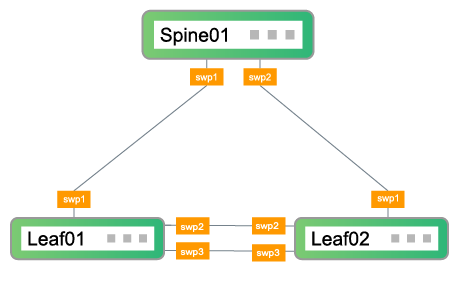
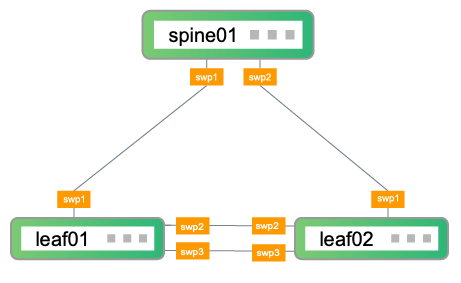
updates to vagrant and VB

Changed region(s): [[0.3341, 0.0848, 0.5163, 0.1696], [0.6681, 0.8198, 0.82, 0.8763], [0.0607, 0.8198, 0.2126, 0.8763]]

diff --git a/themes/netDocs/layouts/shortcodes/vx-basic-config.html b/themes/netDocs/layouts/shortcodes/vx-basic-config.html
@@ -1,20 +1,15 @@
-<p>After you have created the three VMs: Leaf01, Leaf02, and Spine 01, power on the VMs, then perform the following basic configuration:</p>
+<p>After you have created the three VMs: leaf01, leaf02, and spine 01, power on the VMs, then perform the following basic configuration:</p>
 
 <ul>
-<li>Log into each switch</li>
 <li>Change the hostname</li>
 <li>Bring up swp1, swp2, and swp3</li>
 <li>Check the connections</li>
 </ul>
 <p>You can also check system information and upgrade Cumulus Linux using ONIE (an open source project (equivalent to PXE on servers) that enables the installation of network operating systems).</p>
-<h3 id="logintotheswitch">Log in to Each Switch</h3>
-<p> Log into each switch with the <code>cumulus</code> account and default password <code>cumulus</code>. When you log in for the first time with the <code>cumulus</code> account, you are prompted to change the default password.</p>
-
-<b>Note:</b> If you are using Cumulus VX 4.1.1 or earlier, the default password is <code>CumulusLinux!</code>. You are <b>not</b> prompted to change the default password.</p>
 
 <h3 id="changethehostname">Change the Hostname</h3>
 
-<p>On each VM, run the following command, where <code>&#60;name&#62;</code> is leaf01, Leaf02, or Spine01, then exit the switch and log back in:</p>
+<p>On each VM, run the following command, where <code>&#60;name&#62;</code> is leaf01, leaf02, or spine01, then exit the switch and log back in:</p>
 <pre>cumulus@cumulus:mgmt:~$ net add hostname &lt;name&gt;
 cumulus@cumulus:mgmt:~$ net commit
 cumulus@cumulus:mgmt:~$ exit
@@ -23,39 +18,39 @@ cumulus@cumulus:mgmt:~$ exit
 <h3 id="bringuptheinterfaces">Bring up the Interfaces</h3>
 
 <p>On each VM, run the following command to bring up swp1, swp2, and swp3:</p>
-<pre>cumulus@Leaf01:mgmt:~$ net add interface swp1,swp2,swp3
-cumulus@Leaf01:mgmt:~$ net commit
+<pre>cumulus@leaf01:mgmt:~$ net add interface swp1,swp2,swp3
+cumulus@leaf01:mgmt:~$ net commit
 </pre>
 
 <h3 id="checktheconnections">Check the Connections</h3>
 
 <p>On each VM, check the network connections and see which ports are neighbors of a given port:</p>
-<pre>cumulus@Leaf01:mgmt:~$ net show lldp
+<pre>cumulus@leaf01:mgmt:~$ net show lldp
 LocalPort    Speed    Mode          RemoteHost     RemotePort  
 -----------  -------  ------------  ------------   ------------
-swp1         1G       Default       Spine01        swp1
-swp2         1G       Default       Leaf02         swp2
-swp3         1G       Default       Leaf02         swp3
+swp1         1G       Default       spine01        swp1
+swp2         1G       Default       leaf02         swp2
+swp3         1G       Default       leaf02         swp3
 </pre>
-<pre>cumulus@Leaf02:mgmt:~$ net show lldp
+<pre>cumulus@leaf02:mgmt:~$ net show lldp
 LocalPort    Speed    Mode          RemoteHost     RemotePort  
 -----------  -------  ------------  ------------   ------------
-swp1         1G       Default       Spine01        swp2
-swp2         1G       Default       Leaf01         swp2
-swp3         1G       Default       Leaf01         swp3
+swp1         1G       Default       spine01        swp2
+swp2         1G       Default       leaf01         swp2
+swp3         1G       Default       leaf01         swp3
 </pre>
-<pre>cumulus@Spine01:mgmt:~$ net show lldp
+<pre>cumulus@spine01:mgmt:~$ net show lldp
 LocalPort    Speed    Mode          RemoteHost     RemotePort  
 -----------  -------  ------------  ------------   ------------
-swp1         1G       Default       Leaf01         swp1
-swp2         1G       Default       Leaf02         swp1
+swp1         1G       Default       leaf01         swp1
+swp2         1G       Default       leaf02         swp1
 </pre>
 
 <h3>Show System Information</h3>
 <p>To check system information on your VMs, including the Cumulus Linux version, run the <code>net show system</code> command:</p>
 <pre>
-cumulus@Leaf01:mgmt:~$ net show system
-Hostname..............Leaf01
+cumulus@leaf01:mgmt:~$ net show system
+Hostname..............leaf01
 Build.................Cumulus Linux 4.2.0
 Uptime................0.00.23.740000
 Model.................Cumulus VX

diff --git a/themes/netDocs/layouts/shortcodes/vx-intro.html b/themes/netDocs/layouts/shortcodes/vx-intro.html
@@ -1,15 +1,14 @@
 <p><img src="/images/cumulus-vx/VX-topology.png" > </p>
 
-<p>In the toplogy, <strong>Leaf01</strong> and <strong>Leaf02</strong> are the access layer switches on the network. <strong>Leaf01</strong> and <strong>Leaf02</strong> connect to <strong>Spine01</strong>, which is the aggregation layer switch on the network. To facilitate additional configuration you can perform after the initial setup descibed in this guide, Leaf01 and Leaf02 also have two connections to each other.</p> 
+<p>In the toplogy, <strong>leaf01</strong> and <strong>leaf02</strong> are the access layer switches on the network. <strong>leaf01</strong> and <strong>leaf02</strong> connect to <strong>spine01</strong>, which is the aggregation layer switch on the network. To facilitate additional configuration you can perform after the initial setup descibed in this guide, leaf01 and leaf02 also have two connections to each other.</p> 
 
 <p>Follow the steps below to:</p>
 
 <ul>
-<li>Create three VMs (Leaf01, Leaf02, and Spine01)</li>
+<li>Create three VMs (leaf01, leaf02, and spine01) and the network connections between them</li>
 
-<li>Create connections between the VMs</li>
+<li>Log into the switches</li>
 
 <li>Perform basic switch configuration</li>
 
-<li>Run basic commands to get up and running</li>
 </ul>

diff --git a/content/cumulus-vx/Vagrant-and-VirtualBox.md b/content/cumulus-vx/Vagrant-and-VirtualBox.md
@@ -9,9 +9,9 @@ This document describes how to install and set up Cumulus VX within a Vagrant en
 
 These steps were tested with VirtualBox version 6.1.12 and Vagrant version 2.2.9 on macOS version 10.14.6.
 
-## Create the VMs
+## Create the VMs and the Network Connections
 
-The following procedure describes how to create and connect Leaf01, Leaf02, and Spine01 in the example topology using VirtualBox and Vagrant. This section assumes a basic level of Vagrant, VirtualBox, and Linux experience.
+The following procedure creates leaf01, leaf02, and spine01 and the connections between them, as shown in the example topology. This section assumes a basic level of Vagrant, VirtualBox, and Linux experience.
 
 1. Download and install VirtualBox. Refer to the {{<exlink url="https://www.virtualbox.org/wiki/Downloads" text="VirtualBox documentation">}}.
 
@@ -30,12 +30,13 @@ The following procedure describes how to create and connect Leaf01, Leaf02, and 
    the provider you will be working with.
    1) libvirt
    2) virtualbox
+
    Enter your choice: 2
-   ==> box: Adding box 'CumulusCommunity/cumulus-vx' (v3.3.0) for provider: virtual box
+   ==> box: Adding box 'CumulusCommunity/cumulus-vx' (v4.2.0) for provider: virtual box
    ...
    ```
 
-5. In a terminal, create a folder to contain the Vagrant environment, then change directories into that folder.
+5. Create a folder to contain the Vagrant environment, then change directories into that folder.
 
    ```
    local@host:~$ mkdir vagrant
@@ -48,118 +49,49 @@ The following procedure describes how to create and connect Leaf01, Leaf02, and 
    local@host:~/vagrant$ vagrant init
    ```
 
-7. Configure Vagrant to spin up a Cumulus VX VM. Modify the newly created `Vagrantfile` to configure the VMs, then save the file:
+7. Edit the `Vagrantfile` to provision the VMs and create the network connections. The following example creates leaf01, leaf02 and spine01, where the interfaces swp1 through swp3 are connected through separate private networks, as shown in the example topology above. Add this section at the end of the `Vagrantfile`.
 
    ```
    local@host:~/vagrant$ vi Vagrantfile
 
-   Vagrant.configure(2) do |config|
-   config.vm.box = "CumulusCommunity/cumulus-vx"
+   Vagrant.configure("2") do |config|
+
+   config.vm.define "leaf01" do |leaf01|
+      leaf01.vm.box = "CumulusCommunity/cumulus-vx"
+
+      # Internal network for swp* interfaces.
+      leaf01.vm.network "private_network", virtualbox__intnet: "intnet-1", auto_config: false
+      leaf01.vm.network "private_network", virtualbox__intnet: "intnet-3", auto_config: false
+      leaf01.vm.network "private_network", virtualbox__intnet: "intnet-4", auto_config: false
+   end
+
+   config.vm.define "leaf02" do |leaf02|
+      leaf02.vm.box = "CumulusCommunity/cumulus-vx"
+
+      # Internal network for swp* interfaces.
+      leaf02.vm.network "private_network", virtualbox__intnet: "intnet-2", auto_config: false
+      leaf02.vm.network "private_network", virtualbox__intnet: "intnet-3", auto_config: false
+      leaf02.vm.network "private_network", virtualbox__intnet: "intnet-4", auto_config: false
+   end
+
+   config.vm.define "spine01" do |spine01|
+      spine01.vm.box = "CumulusCommunity/cumulus-vx"
+
+      # Internal network for swp* interfaces.
+      spine01.vm.network "private_network", virtualbox__intnet: "intnet-1", auto_config: false
+      spine01.vm.network "private_network", virtualbox__intnet: "intnet-2", auto_config: false
+   end
+
    end
    ```
 
-   Cumulus VX 3.y.z images require at least 512MB to be fully functional. The default Vagrant memory size is 512MB. If performance issues exist, increase the amount of memory by setting the `v.memory` variable in the `Vagrantfile` to *512* or more. You can also adjust the memory size in the VirtualBox UI when the VM is powered off.
+   Cumulus VX images require at least 512MB. If performance issues exist, increase the amount of memory by setting the `v.memory` variable in the `Vagrantfile`. You can also adjust the memory size in the VirtualBox UI when the VM is powered off.
 
-8. Run `vagrant up` to start the VM:
+9. Run `vagrant up` to start the VMs:
 
    ```
    local@host:~/vagrant$ vagrant up
-   Bringing machine 'default' up with 'virtualbox' provider...
-   ==> default: Importing base box 'cumulus-vx-3.3.0'...
-   ==> default: Matching MAC address for NAT networking...
-   ==> default: Setting the name of the VM: temp_default_1437562573479_23184
-   ==> default: Clearing any previously set network interfaces...
-   ==> default: Preparing network interfaces based on configuration...
-       default: Adapter 1: nat
-   ==> default: Forwarding ports...
-       default: 22 => 2222 (adapter 1)
-   ==> default: Booting VM...
-   ==> default: Waiting for machine to boot. This may take a few minutes...
-       default: SSH address: 127.0.0.1:2222
-       default: SSH username: vagrant
-       default: SSH auth method: private key
-       default: Warning: Connection timeout. Retrying...
-       default:
-       default: Vagrant insecure key detected. Vagrant will automatically replace
-       default: this with a newly generated keypair for better security.
-       default:
-       default: Inserting generated public key within guest...
-       default: Removing insecure key from the guest if it's present...
-       default: Key inserted! Disconnecting and reconnecting using new SSH key...
-   ==> default: Machine booted and ready!
-   ==> default: Checking for guest additions in VM...
-   ==> default: Mounting shared folders...
-       default: /vagrant => /Users/cumulus/vx-example
    ```
-
-After you start a VM, you can log in using the `ssh` option:
-
-   ```
-   local@host:~/vagrant$ vagrant ssh
-   ```
-
-The `vagrant ssh` command logs in as the preconfigured `vagrant` user. A shared file system is automatically mounted inside the VM under the `/vagrant` mount point; you can transfer files between the host and Cumulus VX instance from there.
-
-To shut down the VM, use the `destroy` command:
-
-   ```
-   local@host:~/vagrant$ vagrant destroy
-   ```
-
-For more information on configuring VMs with Vagrant, refer to the {{<exlink url="https://docs.vagrantup.com/v2/" text="Vagrant documentation">}}.
-
-## Add Switch Port Interfaces
-
-By default Vagrant only configures the first network interface (eth0) for its own use. You must configure additional network interfaces, such as the Cumulus Linux switch port interfaces, in the `Vagrantfile`. Normally, you configure these interfaces to use a private network. By default, Vagrant provides one preconfigured private network, although you can choose to create additional private networks. You can connect one or more network interfaces to a private network.
-
-The following example creates a Cumulus VX VM where the interfaces swp1 through swp4 are created and connected to the preconfigured private network:
-
-   ```
-   Vagrant.configure(2) do |config|
-     config.vm.box = "CumulusCommunity/cumulus-vx"
-
-     config.vm.network "private_network", virtualbox__intnet: "swp1", auto_config: false
-     config.vm.network "private_network", virtualbox__intnet: "swp2", auto_config: false
-     config.vm.network "private_network", virtualbox__intnet: "swp3", auto_config: false
-     config.vm.network "private_network", virtualbox__intnet: "swp4", auto_config: false
-   end
-   ```
-
-For more information on creating and using private networks, refer to the {{<exlink url="https://docs.vagrantup.com/v2/networking/private_network.html" text="Vagrant documentation">}}.
-
-### Create Multiple VMs
-
-Vagrant can create and configure multiple VMs with a single command. For example, you can use Vagrant to create multiple Cumulus VX VMs and then connect the network interfaces of those VMs together.
-
-The following example creates two Cumulus VX VMs, leaf1 and leaf2, where the interfaces swp1 through swp4 are connected together via separate private networks:
-
-   ```
-   Vagrant.configure(2) do |config|
-
-   config.vm.define "Leaf01" do |Leaf01|
-      leaf1.vm.box = "CumulusCommunity/cumulus-vx"
-
-      # Internal network for swp* interfaces.
-      Leaf01.vm.network "private_network", virtualbox__intnet: "swp1", auto_config: false
-      Leaf01.vm.network "private_network", virtualbox__intnet: "swp2", auto_config: false
-      Leaf01.vm.network "private_network", virtualbox__intnet: "swp3", auto_config: false
-      Leaf01.vm.network "private_network", virtualbox__intnet: "swp4", auto_config: false
-   end
-
-   config.vm.define "Leaf02" do |Leaf02|
-      Leaf02.vm.box = "CumulusCommunity/cumulus-vx"
-
-      # Internal network for swp* interfaces.
-      Leaf02.vm.network "private_network", virtualbox__intnet: "swp1", auto_config: false
-      Leaf02.vm.network "private_network", virtualbox__intnet: "swp2", auto_config: false
-      Leaf02.vm.network "private_network", virtualbox__intnet: "swp3", auto_config: false
-      Leaf02.vm.network "private_network", virtualbox__intnet: "swp4", auto_config: false
-   end
-
-   end
-   ```
-
-When you run `vagrant up`, both VMs are created. You can log in to each VM and configure the interfaces as you want; the interfaces will pass traffic between themselves as if they are two physical switches connected together by four cables.
 
 {{%notice note%}}
 
@@ -169,6 +101,18 @@ When using Vagrant with Cumulus VX:
 - The first network interface (eth0) is always managed by Vagrant and must be connected to a NAT network.
 
 {{%/notice%}}
+
+## Log into the Switch
+
+Log into each switch with the `vagrant ssh` command. For example:
+
+```
+local@host:~/vagrant$ vagrant ssh leaf01
+```
+
+To have permissions to run `cumulus` commands, run the `sudo su cumulus -` command. When prompted to change the password, enter the default cumulus user password `cumulus`, enter a new password, then confirm the password.
+
+If you are using Cumulus VX 4.1.1 or earlier, the default password is `CumulusLinux!`. You are **not** prompted to change the default password.
 
 ## Basic Switch Configuration
 

diff --git a/content/cumulus-vx/VirtualBox.md b/content/cumulus-vx/VirtualBox.md
@@ -77,6 +77,12 @@ Make sure that the VM is powered off.
 |           | swp1     | Adapter 2            | Internal                | intnet-1              |
 |           | swp2     | Adapter 3            | Internal                | intnet-2              |
 
+## Log into the Switch
+
+Log into each switch with the `cumulus` account and default password `cumulus`. When you log in for the first time with the `cumulus` account, you are prompted to change the default password.
+
+If you are using Cumulus VX 4.1.1 or earlier, the default password is `CumulusLinux!`. You are **not** prompted to change the default password.
+
 ## Basic Switch Configuration
 
 {{% vx-basic-config %}}
